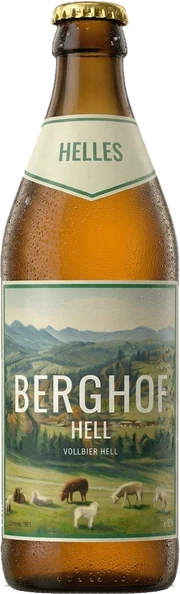
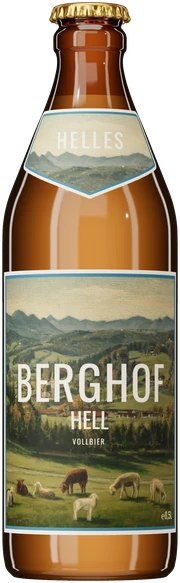
Zutaten: bottle rendered from the 3D model with the new blue labels (stand-in until the new photo is available), gold lines re-aimed — local preview

diff --git a/index.html b/index.html
@@ -324,12 +324,12 @@
   </style>
   <!-- restliches CSS lädt, ohne den ersten Bildaufbau zu blockieren: früh holen (preload), als print-Stylesheet
        einbinden, js/main.js schaltet es auf alle Medien um (kein Inline-Handler → strenge Content-Security-Policy) -->
-  <link rel="preload" href="css/style.css?v=e5377a88" as="style" />
-  <link rel="stylesheet" href="css/style.css?v=e5377a88" media="print" id="css-main" />
-  <noscript><link rel="stylesheet" href="css/style.css?v=e5377a88" /></noscript>
+  <link rel="preload" href="css/style.css?v=65e142d2" as="style" />
+  <link rel="stylesheet" href="css/style.css?v=65e142d2" media="print" id="css-main" />
+  <noscript><link rel="stylesheet" href="css/style.css?v=65e142d2" /></noscript>
 
   <!-- Scroll-Sequenz (GSAP + Bildfolge) wird erst nach dem ersten Rendern geladen (js/main.js) -->
-  <script type="module" src="js/main.js?v=e5377a88"></script>
+  <script type="module" src="js/main.js?v=65e142d2"></script>
 </head>
 <body>
 
@@ -479,14 +479,14 @@
         <!-- Zutaten um die Flasche: Hopfen und Wasser links, Malz rechts, goldene Linien führen zur Flasche (Desktop ab 1100 px, js/etikett.js zeichnet sie beim ersten Erscheinen); schmal: Flasche mittig, darunter die drei Zutaten -->
         <div class="zutaten-buehne" data-etikett>
           <svg class="etikett__linie zutaten__linien" viewBox="0 0 100 58" aria-hidden="true" focusable="false">
-            <path class="etikett__pfad" pathLength="1" d="M32.5 9H38Q42 9 44.4 9.6T46.7 10.2"/>
-            <path class="etikett__pfad" pathLength="1" d="M67.5 24H63Q60.5 24 59 23T57.2 22"/>
-            <path class="etikett__pfad" pathLength="1" d="M32.5 40H36Q40 40 41.2 44.6T42.6 48.3"/>
+            <path class="etikett__pfad" pathLength="1" d="M32.5 9H38Q42 9 44.4 9.5T46.6 10"/>
+            <path class="etikett__pfad" pathLength="1" d="M67.5 24H63Q60.5 24 59 22.7T57.2 21.6"/>
+            <path class="etikett__pfad" pathLength="1" d="M32.5 40H36Q40 40 41.2 44T42.7 47.4"/>
           </svg>
           <i class="etikett__raute zr1" aria-hidden="true"></i><i class="etikett__raute zr2" aria-hidden="true"></i><i class="etikett__raute zr3" aria-hidden="true"></i>
           <figure class="zutaten__flasche">
             <img class="zf__schatten" src="assets/img/flasche-schatten-320.webp" srcset="assets/img/flasche-schatten-320.webp 426w, assets/img/flasche-schatten-640.webp 852w" sizes="400px" width="426" height="159" loading="lazy" decoding="async" alt="" />
-            <img class="zf__bild" src="assets/img/flasche-360.webp?v=4" srcset="assets/img/flasche-180.webp?v=4 180w, assets/img/flasche-360.webp?v=4 312w" sizes="(min-width: 1100px) 170px, 130px" width="312" height="1029" loading="lazy" decoding="async" alt="Eine Flasche Berghof Hell" />
+            <img class="zf__bild" src="assets/img/flasche-360.webp?v=5" srcset="assets/img/flasche-180.webp?v=5 180w, assets/img/flasche-360.webp?v=5 360w, assets/img/flasche-540.webp?v=5 540w" sizes="(min-width: 1100px) 170px, 130px" width="360" height="1165" loading="lazy" decoding="async" alt="Eine Flasche Berghof Hell" />
           </figure>
           <ul class="ingredients">
             <li class="ingredient">

diff --git a/css/style.css b/css/style.css
@@ -386,9 +386,9 @@ h3 {
   .zutaten-buehne .ingredient:nth-child(1) { left: 2cqw; top: 1cqw; }
   .zutaten-buehne .ingredient:nth-child(2) { left: 68cqw; top: 14cqw; }
   .zutaten-buehne .ingredient:nth-child(3) { left: 2cqw; top: 31cqw; }
-  .zutaten-buehne .zr1 { left: 46.7cqw; top: 10.2cqw; }
-  .zutaten-buehne .zr2 { left: 57.2cqw; top: 22cqw; }
-  .zutaten-buehne .zr3 { left: 42.6cqw; top: 48.3cqw; }
+  .zutaten-buehne .zr1 { left: 46.6cqw; top: 10cqw; }
+  .zutaten-buehne .zr2 { left: 57.2cqw; top: 21.6cqw; }
+  .zutaten-buehne .zr3 { left: 42.7cqw; top: 47.4cqw; }
 }
 
 .facts {
